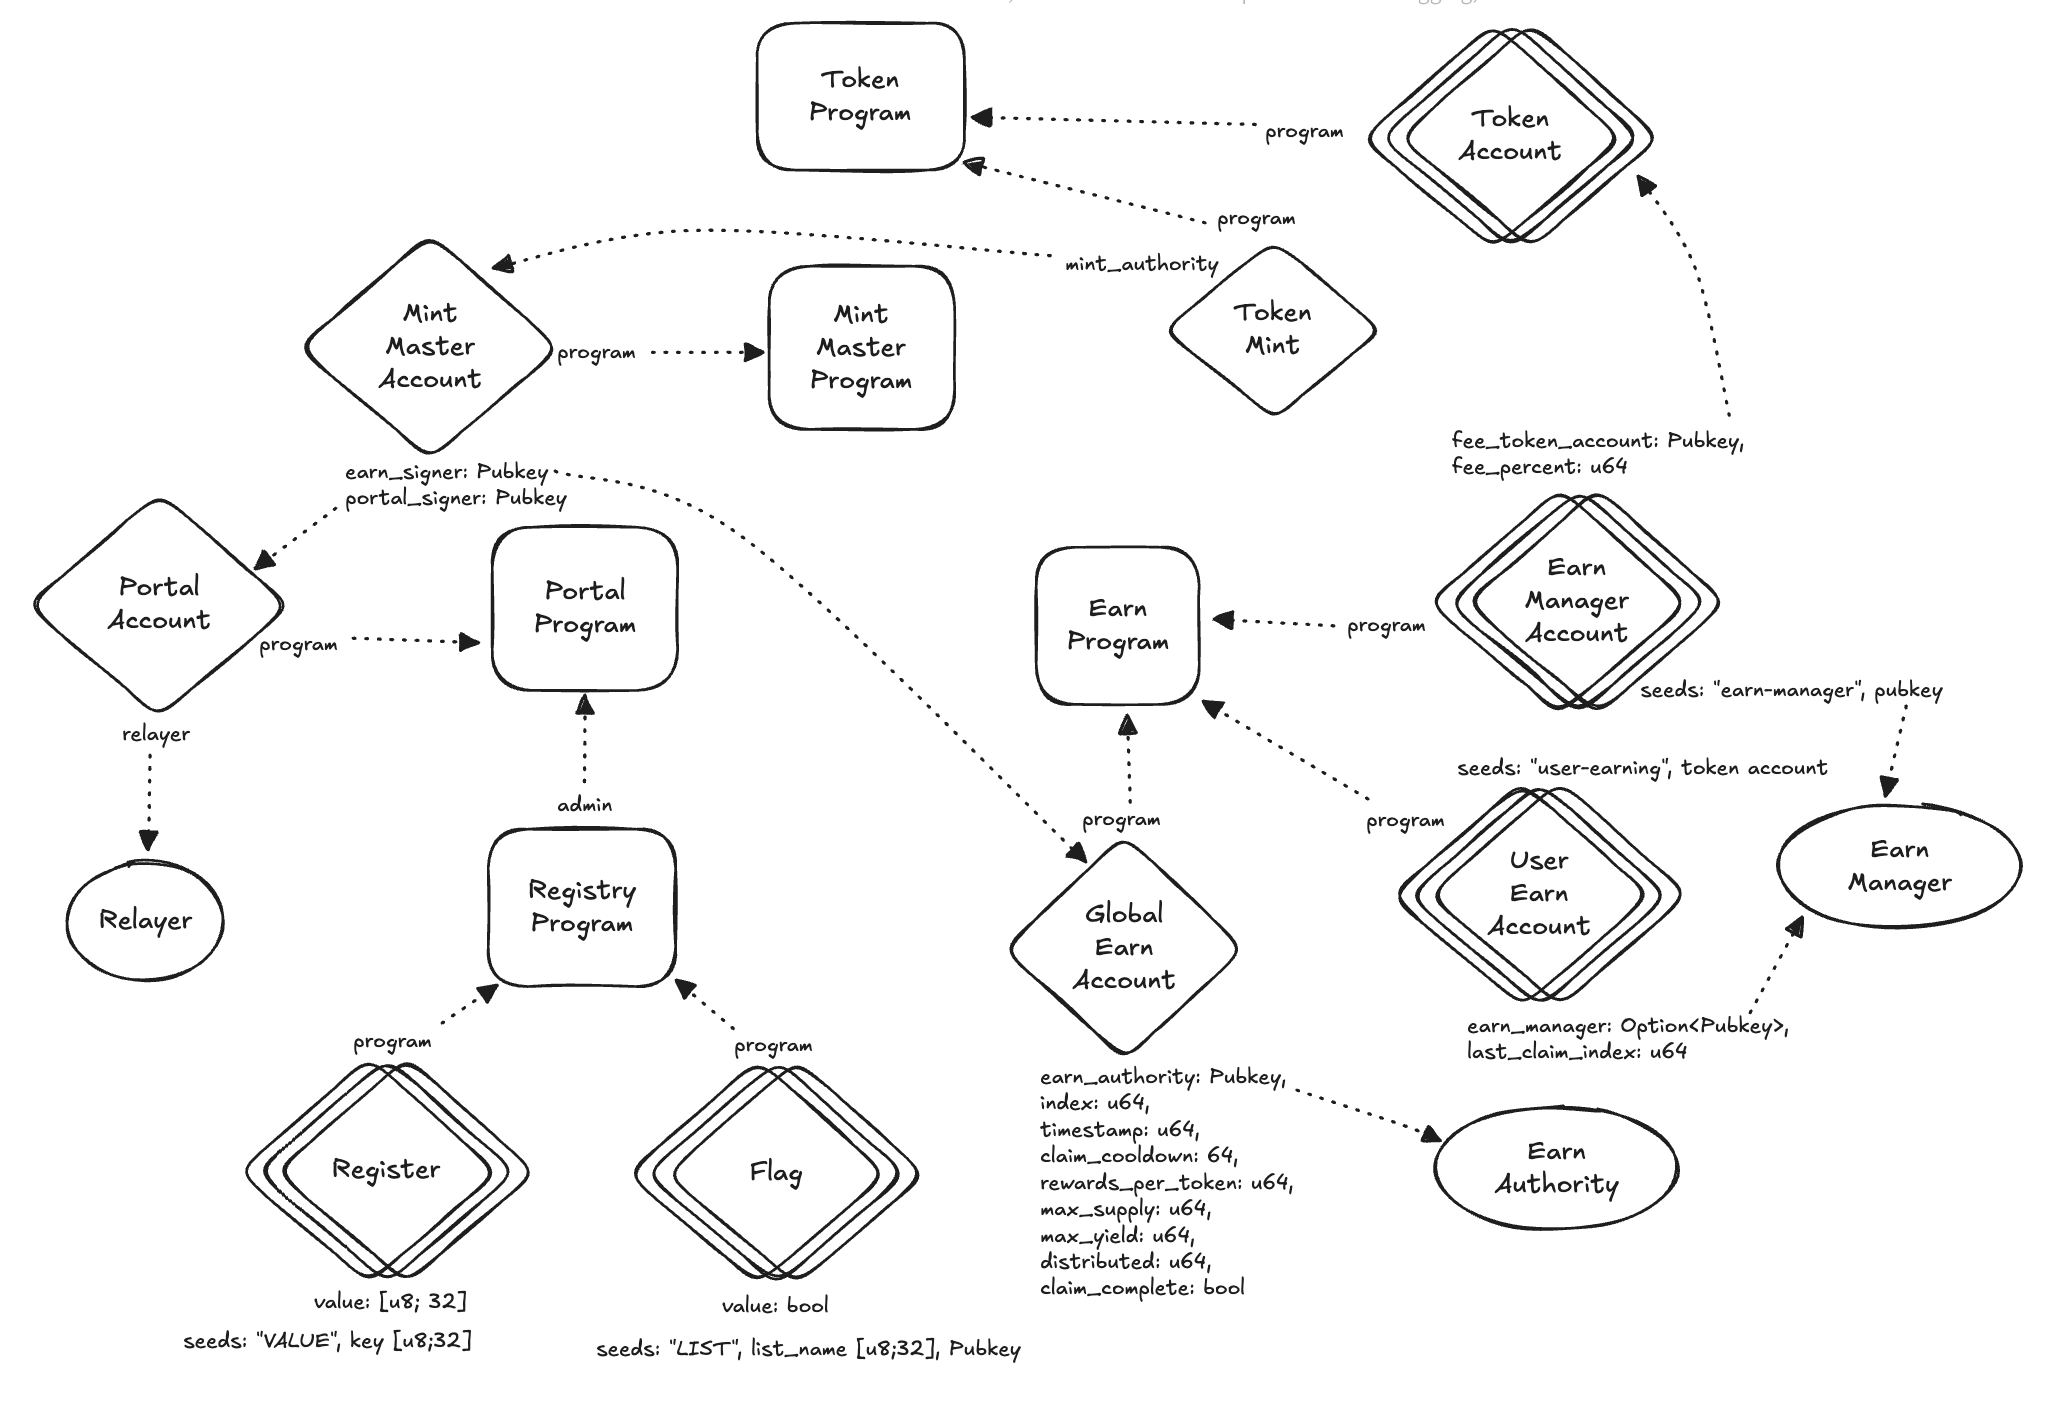
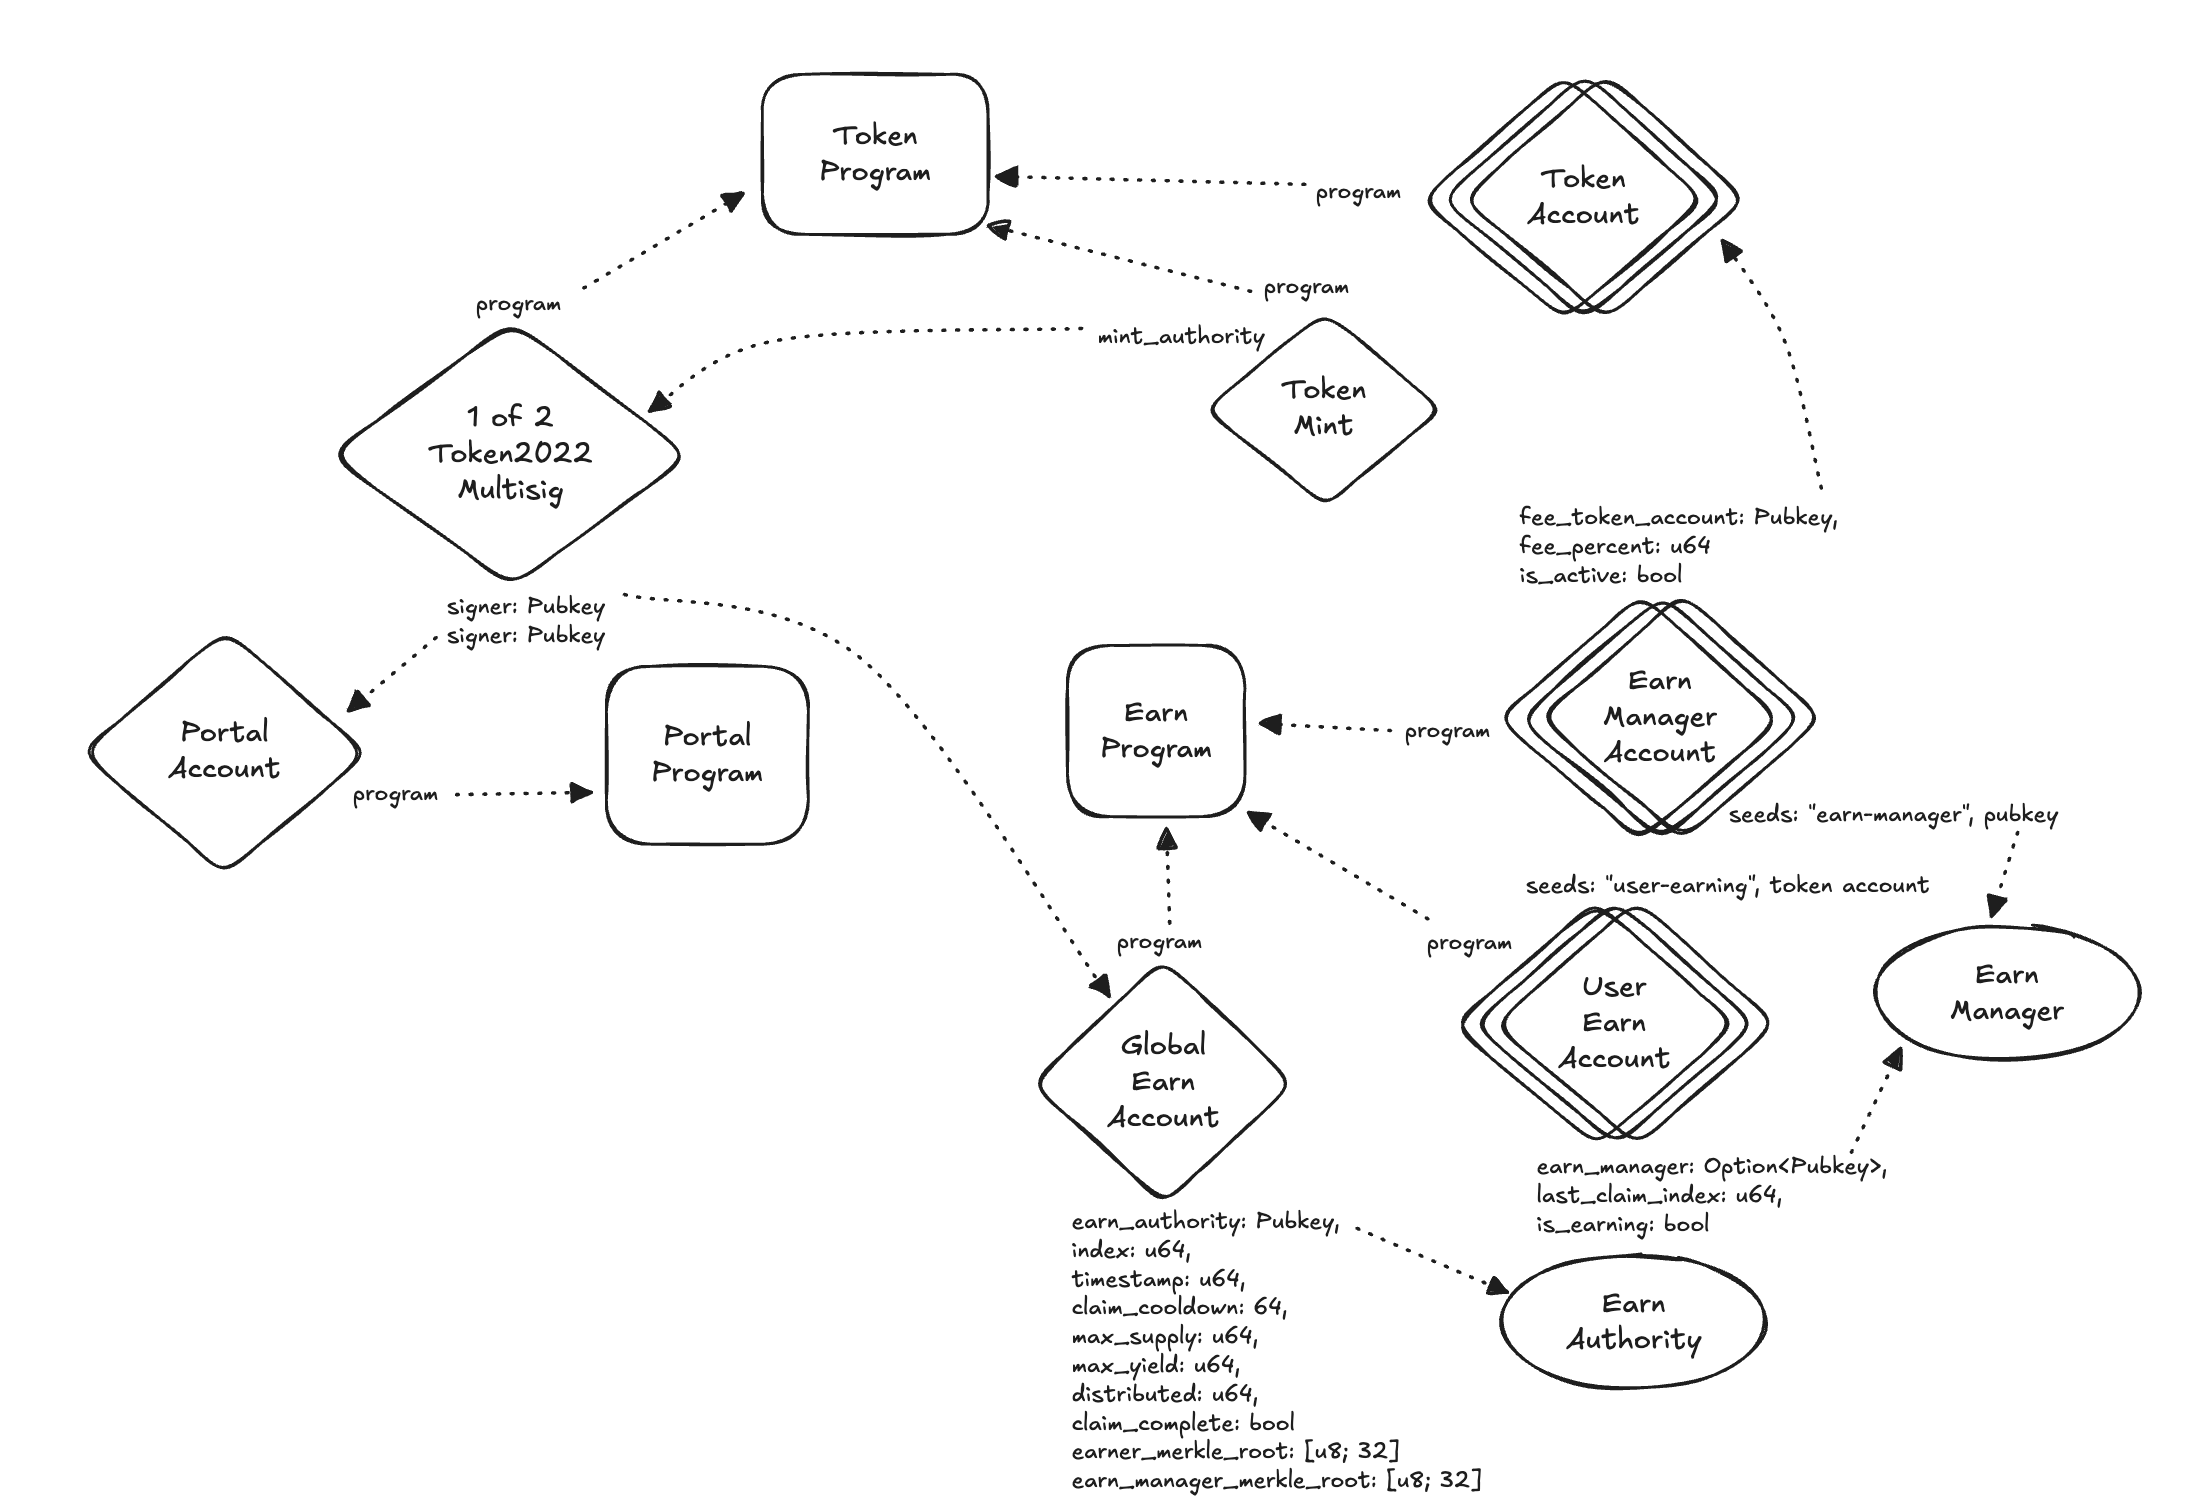
docs: audit scope and diagram updated

diff --git a/audit/scope.md b/audit/scope.md
@@ -24,7 +24,7 @@ Features
 
 A key goal for the design was to limit the amount of Portal customization to only propagating custom messages from other chains. 
 
-![Solana M Programs](assets/solana_m_programs.png)
+![Solana M Programs](../assets/solana_m_programs.png)
 
 ## Programs
 
@@ -56,4 +56,9 @@ Yield distribution is restricted to a permissioned `earn_authority`. The Portal 
 ~~Manages system configuration through key-value storage and access control lists. These values are set by an admin, which will be configured as the Portal receiving messages from Ethereum mainnet.~~
 
 ### Portal
-An external program not included in this repository. It is a fork of the Wormhole Native Token Transfer (NTT) Manager program, customized to allow passing generic messages and a payload with transfers
+The Portal is a fork of the Wormhole Native Token Transfer (NTT) program with a few modifications to suit our purposes:
+- A custom `Payload` to be able to receive the M index as well as two merkle roots from other chains with each transfer.
+- Utilitizing the newly added Token Multisig Mint Authority functionality to allow both the Portal and Earn programs to be able to mint M.
+- Adding a couple accounts and a CPI call to the `Earn` program within the `ReleaseInboundMintMultisig` instruction to store the custom data sent in the `Payload`.
+
+This is not currently included in the scope / lines of code.
